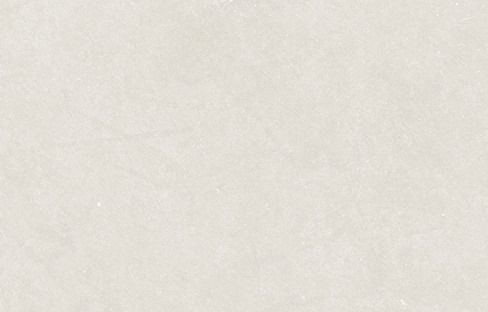
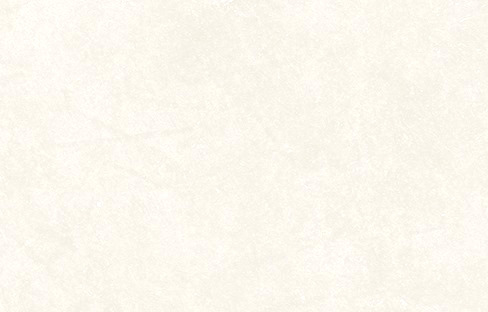
Colors change

diff --git a/resources/sass/app.scss b/resources/sass/app.scss
@@ -41,7 +41,7 @@ body {
 .navbar {
     transition: 0.5s;
     color: $body-bg;
-    background-color: #E6E1DB;
+    background-color: #FAF6EB;
 }
 
 .nav-transparent {
